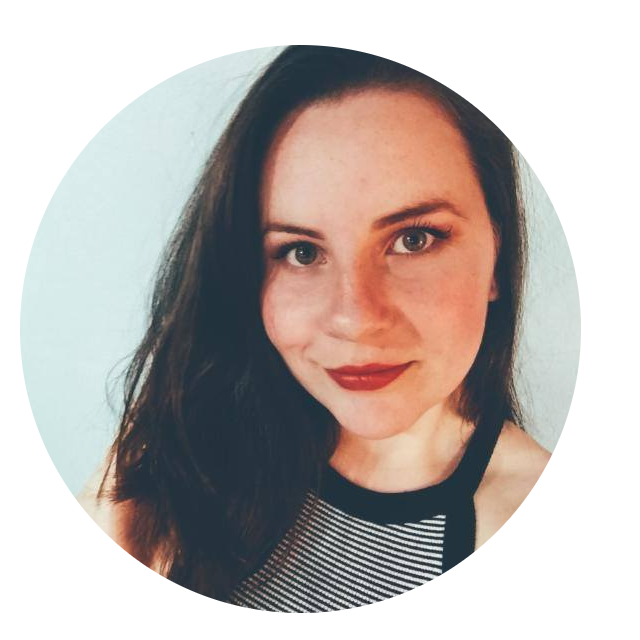
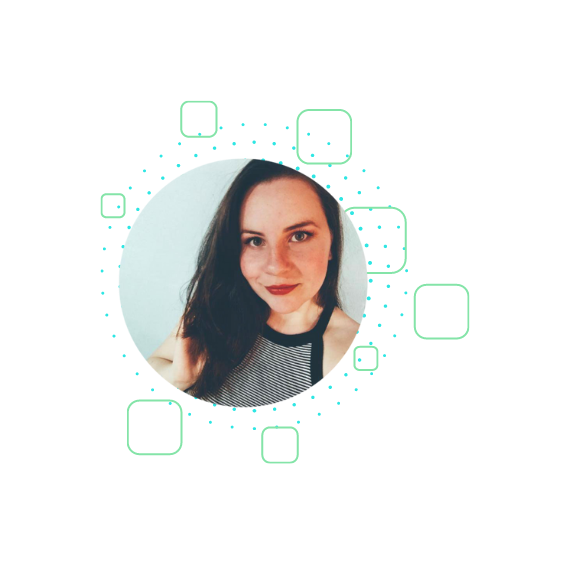
Ajustes na seção inicial

diff --git a/src/styles/apresentacao.css b/src/styles/apresentacao.css
@@ -1,3 +1,5 @@
+/* Textos */
+
 .container__div-texto {
     margin: auto;
     width: 80%;
@@ -30,7 +32,7 @@
     display: flex;
     flex-direction: column;
     gap: 3rem;
-    margin-top: 2.5rem;
+    margin-top: 3.5rem;
 }
 
 .div-texto__li-a {
@@ -49,25 +51,26 @@
     color: var(--verde);
     font-family: var(--fonte-mono);
     padding: 0.5rem;
-    transition: 500ms;
-    width: 8rem;
+    width: 9rem;
 }
 
 .div-texto__li-btn:hover, .div-texto__li-btn:active {
     background-color: var(--verde-hover);
 }
 
+/* Escondendo a imagem no mobile */
+
+.container__div-imagens {
+    display: none;
+}
 
 
 /* Responsividade */
-@media screen and (min-width: 730px) {
+@media screen and (min-width: 768px) {
 
 .main__container {
-    align-items: center;
     display: flex;
-    gap: 1.5rem;
-    justify-content: center;
-    margin: 5rem;
+    margin: 7rem;
 }
 
 .container__div-texto {
@@ -82,28 +85,34 @@
 
 .div-texto__ul {
     flex-direction: row;
-    gap: 5.5rem;
+    gap: 2rem;
     margin-top: 1.5rem;
 }
 
 .div-texto__li-btn:hover {
     transform: scale(1.1);
+    transition: 500ms;
 }
 
 /* Imagem de perfil e background */
 
 .container__div-imagens {
-    background: url(../assets/images/profile-background.svg) center/cover no-repeat;
-    height: 360px;
-    position: relative;
-    width: 45%;
+    align-items: center;
+    display: flex;
+    height: 400px;
+    margin-right: 8rem;
+    width: 35%;
 }
 
 .div-imagens__perfil-img {
-    height: 273px;
-    position: absolute;
-    right: 10.2rem;
-    top: 2.6rem;
-    width: 273px;
+    height: 500px;
+    width: 500px;
+}
+}
+
+@media screen and (min-width: 1550px) {
+    .div-imagens__perfil-img {
+    height: 550px;
+    width: 550px;
 }
 }

diff --git a/index.html b/index.html
@@ -5,6 +5,9 @@
     <meta http-equiv="X-UA-Compatible" content="IE=edge">
     <meta name="viewport" content="width=device-width, initial-scale=1.0">
 
+    <!-- FavIcon -->
+    <link rel="icon" type="image/x-icon" href="/src/assets/images/favicon.ico">
+
     <!-- Fonts -->
     <link rel="preconnect" href="https://fonts.googleapis.com">
     <link rel="preconnect" href="https://fonts.gstatic.com" crossorigin>
@@ -23,7 +26,7 @@
     <header>  
         <nav class="header__nav">
             <div class="header__nav-logo">
-                <img class="header__nav-img" src="./src/assets/images/gg-logo.svg" alt="logo">
+                <img class="header__nav-logo" src="./src/assets/images/gg-logo.svg" alt="logo">
             </div>
             
             <div class="header__nav-container">
@@ -68,7 +71,7 @@
                 </ul>
             </div>
 
-            <div class="container__div-imagens hide">
+            <div class="container__div-imagens">
                 <img class="div-imagens__perfil-img" src="./src/assets/images/profile.png" alt="foto de Grasiele Gomes">
             </div>
         </div>

diff --git a/src/styles/header.css b/src/styles/header.css
@@ -12,11 +12,12 @@ main {
 .header__nav {
     align-items: center;
     display: flex;
-    gap: 6.7rem;
+    justify-content: space-between;
+    margin: 0 2rem 0 1rem;
 }
 
-.header__nav-img {
-    width: 6rem;
+.header__nav-logo {
+    width: 5rem;
 }
 
 .mobile-menu-nav-ul {
@@ -40,6 +41,7 @@ main {
 .menu-dropdown-btn {
     background: none;
     border: none;
+    margin-right: 1rem;
 }
 
 .icone-menu-dropdown {
@@ -50,9 +52,11 @@ main {
     display: block;
 }
 
+
+
 /* Responsividade */
 
-@media screen and (min-width: 730px) {
+@media screen and (min-width: 768px) {
 
 /* Escondendo menu responsivo */
 .mobile-menu-icon {
@@ -65,19 +69,14 @@ main {
 
 /* Fim menu responsivo */
 
-.header__nav {
-    gap: 42%;
-}
-
-.header__nav-img {
+.header__nav-logo {
     height: 100px;
-    margin-left: 2rem;
     width: 100px;
 }
 
 .nav__container-ul {
     display: flex;
-    font-size: 0.8rem;
+    font-size: 0.rem;
     gap: 1.5rem;
 }
 
@@ -114,5 +113,3 @@ main {
         gap: 50%;
     }
 }
-
-

diff --git a/src/styles/style.css b/src/styles/style.css
@@ -15,11 +15,3 @@ body {
     color: var(--texto-branco);
     font-family: var(--fonte-sans);
 }
-
-.hide {
-    display: none;
-}
-
-.mostraDiv {
-    display: block;
-}
